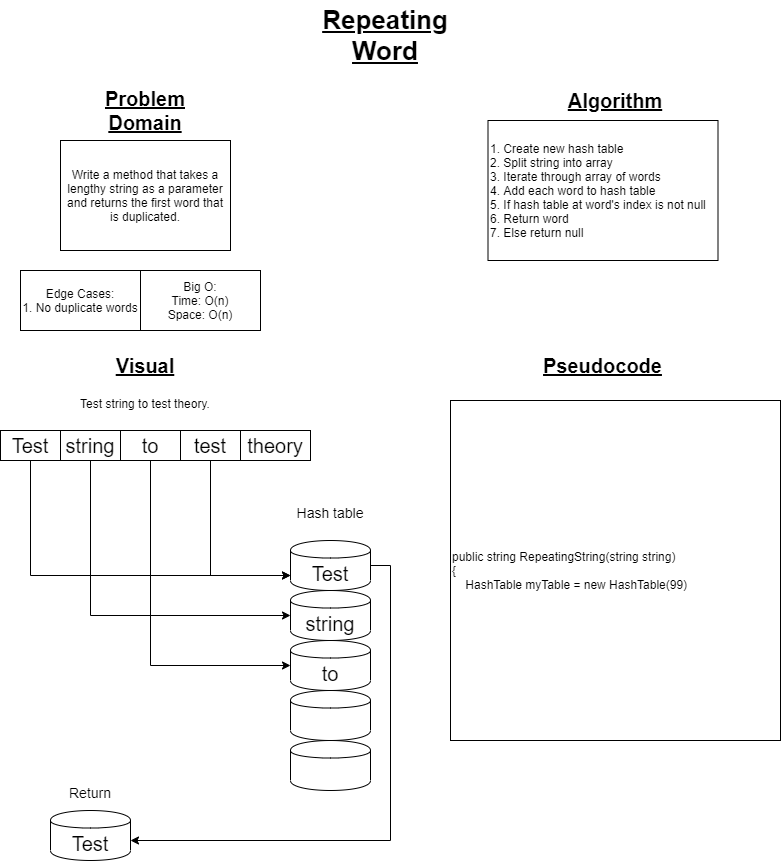
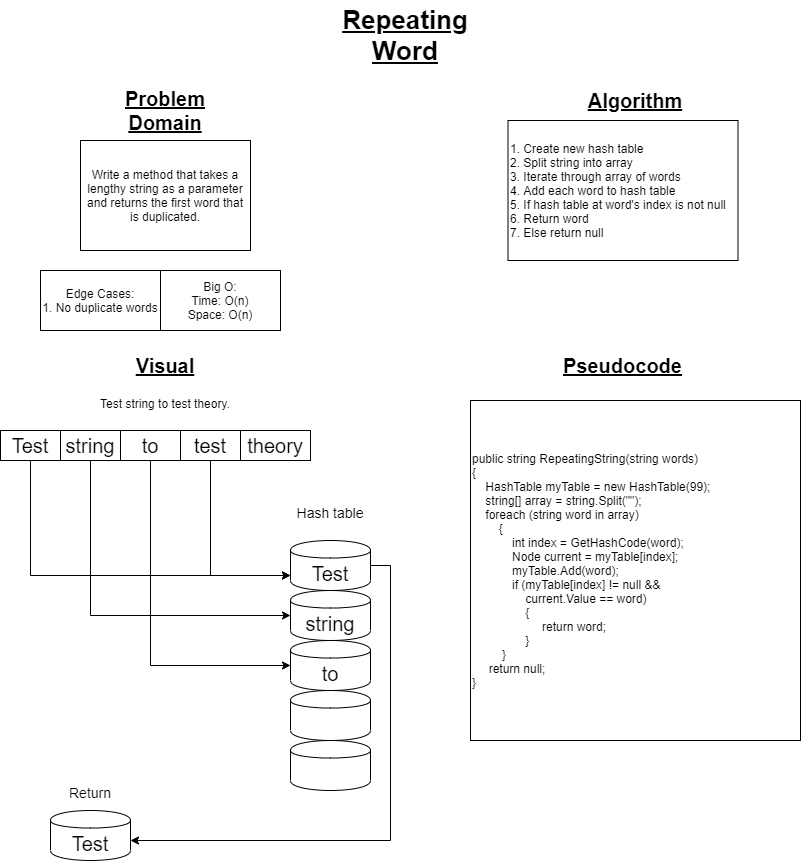
duplicate word being returned

diff --git a/Challenges/HashTableStuff/DuplicateSearch.cs b/Challenges/HashTableStuff/DuplicateSearch.cs
@@ -1,5 +1,6 @@
 using System;
 using System.Text;
+using System.Xml;
 using DataStructures.HashTable;
 
 namespace Challenges.HashTableStuff
@@ -11,7 +12,26 @@ namespace Challenges.HashTableStuff
             if (words == null || words == "")
                 return null;
 
-            return words;
+            HashTable myTable = new HashTable(99);
+            string lowerWords = words.ToLower();
+            string[] allWords = lowerWords.Split(" ");
+
+            foreach (string word in allWords)
+            {
+                int index = HashTable.GenerateHashCode(word);
+                HashTable.Node current = myTable.Buckets[index];
+
+                if (myTable.Buckets[index] == null)
+                {
+                    myTable.AddToHashTable(word, word);
+                }
+                else
+                {
+                    return word;
+                }
+            }
+
+            return null;
         }
     }
 }

diff --git a/Challenges.Tests/DuplicateSearch.Tests/DuplicateSearchTests.cs b/Challenges.Tests/DuplicateSearch.Tests/DuplicateSearchTests.cs
@@ -20,5 +20,18 @@ namespace Challenges.Tests.DuplicateSearch.Tests
             // Assert
             Assert.Null(result);
         }
+
+        [Fact]
+        public void Can_return_duplicate_word()
+        {
+            // Arrange
+            string testString = "This is the second this";
+
+            // Act
+            var result = HashTableStuff.DuplicateSearch.RepeatingWord(testString);
+
+            // Assert
+            Assert.Equal("this", result);
+        }
     }
 }
